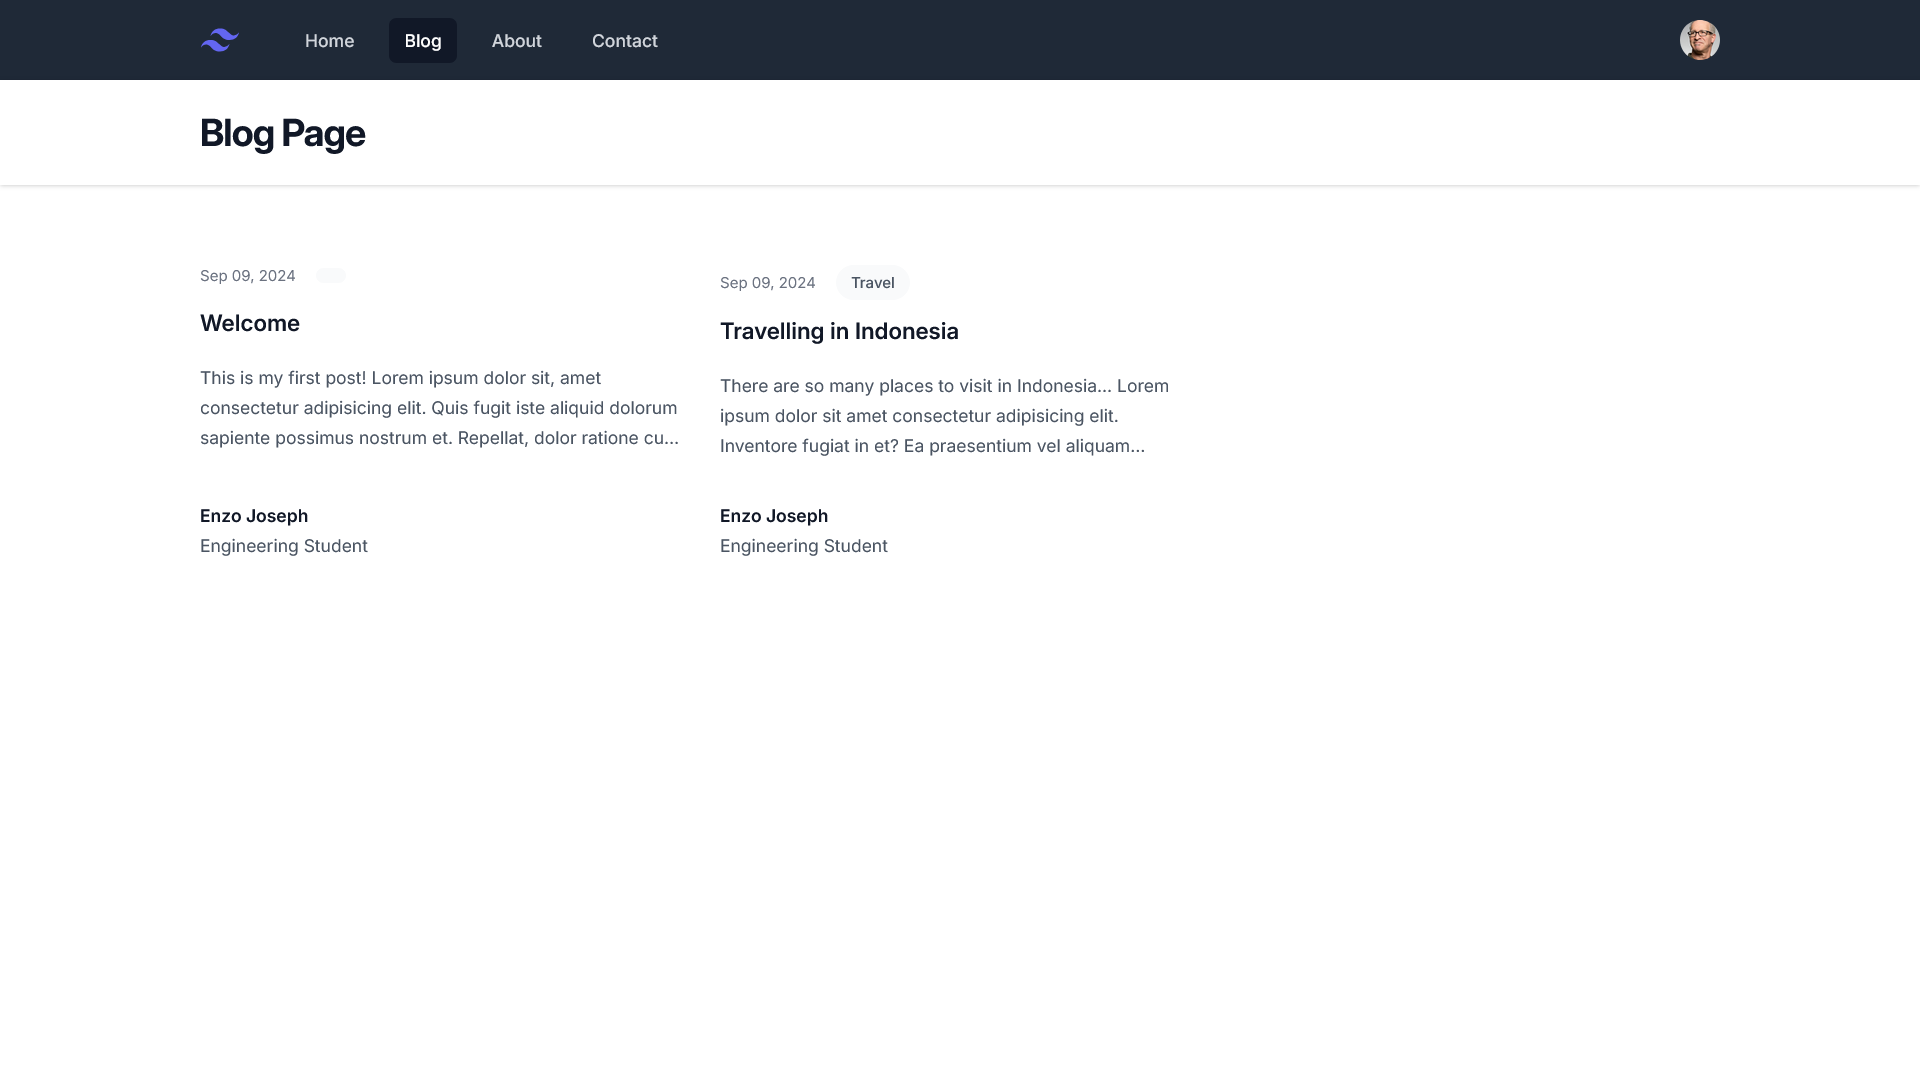
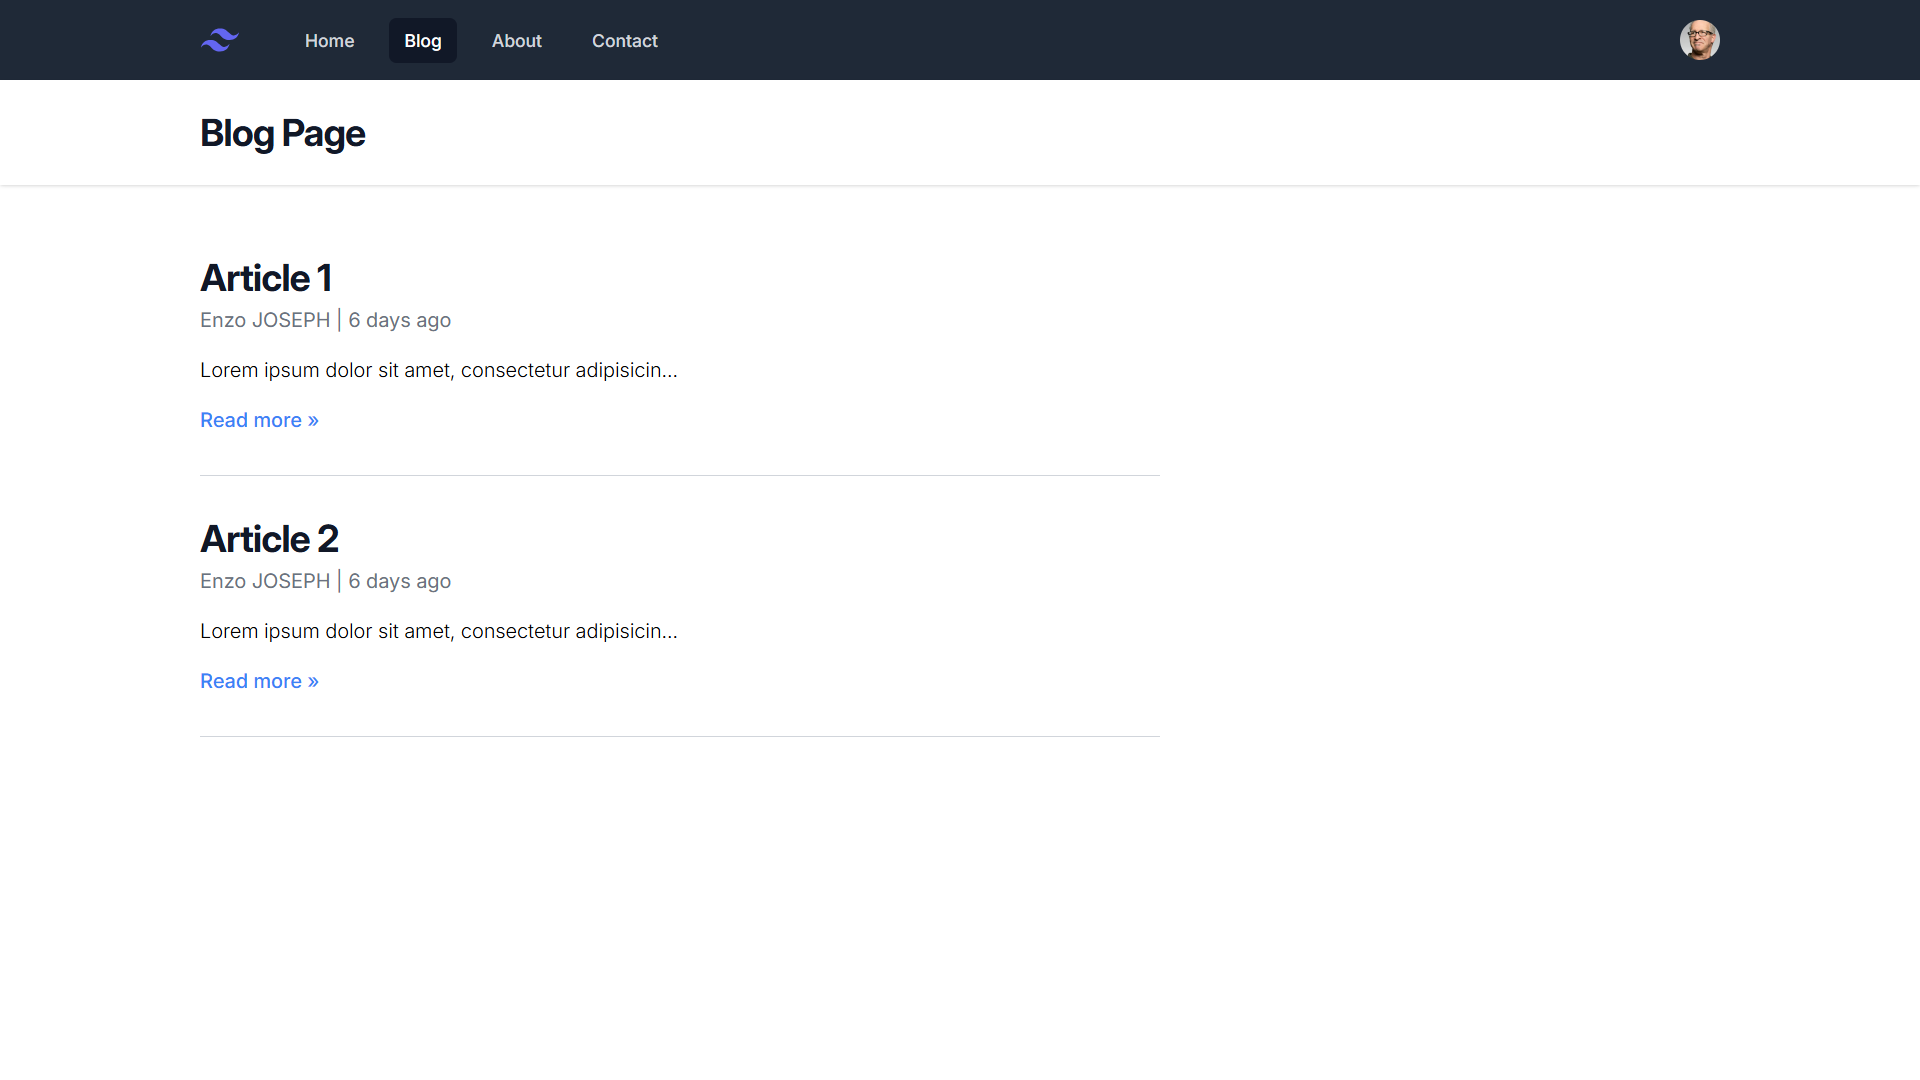
Added a 'Post' model along with the 'posts" database. Updated the readme.

diff --git a/app/Policies/PostPolicy.php b/app/Policies/PostPolicy.php
@@ -1,0 +1,66 @@
+<?php
+
+namespace App\Policies;
+
+use App\Models\Post;
+use App\Models\User;
+use Illuminate\Auth\Access\Response;
+
+class PostPolicy
+{
+    /**
+     * Determine whether the user can view any models.
+     */
+    public function viewAny(User $user): bool
+    {
+        //
+    }
+
+    /**
+     * Determine whether the user can view the model.
+     */
+    public function view(User $user, Post $post): bool
+    {
+        //
+    }
+
+    /**
+     * Determine whether the user can create models.
+     */
+    public function create(User $user): bool
+    {
+        //
+    }
+
+    /**
+     * Determine whether the user can update the model.
+     */
+    public function update(User $user, Post $post): bool
+    {
+        //
+    }
+
+    /**
+     * Determine whether the user can delete the model.
+     */
+    public function delete(User $user, Post $post): bool
+    {
+        //
+    }
+
+    /**
+     * Determine whether the user can restore the model.
+     */
+    public function restore(User $user, Post $post): bool
+    {
+        //
+    }
+
+    /**
+     * Determine whether the user can permanently delete the model.
+     */
+    public function forceDelete(User $user, Post $post): bool
+    {
+        //
+    }
+}

diff --git a/resources/views/blog.blade.php b/resources/views/blog.blade.php
@@ -1,4 +1,16 @@
 <x-layout>
-    <x-slot:title>{{ $title }}</x-slot>
-    <x-blogpostcontainer></x-blogpostcontainer>
+    <x-slot:title>Blog Page</x-slot>
+
+    @foreach ($posts as $post)
+        <article class="py-8 max-w-screen-md border-b border-gray-300">
+            <a href='/blog/{{$post["id"]}}' class="font-medium text-gray-900 hover:underline">
+                <h2 class="mb-1 text-3xl tracking-tight font-bold text-gray-900">{{$post['title']}}</h2>
+            </a>
+            <div class="text-base text-gray-500">
+                <a href="#">{{ $post['author'] }}</a> | {{ $post->created_at->diffForHumans() }}
+            </div>
+            <p class="my-4 font-light">{{ Str::limit($post['content'], 50) }}</p>
+            <a href='/blog/{{$post["id"]}}' class="font-medium text-blue-500 hover:underline">Read more &raquo;</a>
+        </article>
+    @endforeach
 </x-layout>

diff --git a/routes/web.php b/routes/web.php
@@ -1,6 +1,7 @@
 <?php
 
 use Illuminate\Support\Facades\Route;
+use App\Models\Post;
 
 Route::get('/', function () {
     return view('home', ['title' => 'Home Page']);
@@ -11,8 +12,16 @@ Route::get('/about', function () {
 });
 
 Route::get('/blog', function () {
-    return view('blog', ['title' => 'Blog Page']);
+    // dd([PostController::class, 'index']);
+    return view('blog', ['title' => 'Blog Page', 'posts' => Post::all()]);
 });
+
+Route::get('/blog/{id}', function ($id) {
+    return view('blog-post', ['title' => 'Single Post', 'post' => Post::find($id)]);
+});
+
 Route::get('/contact', function () {
     return view('contact', ['title' => 'Contact Page']);
 });
+
+

diff --git a/resources/views/blog-post.blade.php b/resources/views/blog-post.blade.php
@@ -1,0 +1,14 @@
+<x-layout>
+    <x-slot:title>{{$title}}</x-slot>
+
+    <article class="py-8 max-w-screen-md border-b border-gray-300">
+        <a href='/blog/{{$post["id"]}}' class="font-medium text-gray-900 hover:underline">
+            <h2 class="mb-1 text-3xl tracking-tight font-bold text-gray-900">{{$post['title']}}</h2>
+        </a>
+        <div class="text-base text-gray-500">
+            <a href="#">{{ $post['author'] }}</a> | {{ $post->created_at->diffForHumans() }}
+        </div>
+        <p class="my-4 font-light">{{ $post['content'] }}</p>
+        <a href='/blog' class="font-medium text-blue-500 hover:underline">&laquo; Back</a>
+    </article>
+</x-layout>

diff --git a/database/migrations/2024_09_12_055222_create_posts_table.php b/database/migrations/2024_09_12_055222_create_posts_table.php
@@ -1,0 +1,30 @@
+<?php
+
+use Illuminate\Database\Migrations\Migration;
+use Illuminate\Database\Schema\Blueprint;
+use Illuminate\Support\Facades\Schema;
+
+return new class extends Migration
+{
+    /**
+     * Run the migrations.
+     */
+    public function up(): void
+    {
+        Schema::create('posts', function (Blueprint $table) {
+            $table->id();
+            $table->string('title');
+            $table->text('content');
+            $table->string('author');
+            $table->timestamps();
+        });
+    }
+
+    /**
+     * Reverse the migrations.
+     */
+    public function down(): void
+    {
+        Schema::dropIfExists('posts');
+    }
+};

diff --git a/database/migrations/2024_09_11_074332_create_posts_table.php b/database/migrations/2024_09_11_074332_create_posts_table.php
@@ -1,0 +1,27 @@
+<?php
+
+use Illuminate\Database\Migrations\Migration;
+use Illuminate\Database\Schema\Blueprint;
+use Illuminate\Support\Facades\Schema;
+
+return new class extends Migration
+{
+    /**
+     * Run the migrations.
+     */
+    public function up(): void
+    {
+        Schema::create('posts', function (Blueprint $table) {
+            $table->id();
+            $table->timestamps();
+        });
+    }
+
+    /**
+     * Reverse the migrations.
+     */
+    public function down(): void
+    {
+        Schema::dropIfExists('posts');
+    }
+};

diff --git a/database/factories/PostFactory.php b/database/factories/PostFactory.php
@@ -1,0 +1,23 @@
+<?php
+
+namespace Database\Factories;
+
+use Illuminate\Database\Eloquent\Factories\Factory;
+
+/**
+ * @extends \Illuminate\Database\Eloquent\Factories\Factory<\App\Models\Post>
+ */
+class PostFactory extends Factory
+{
+    /**
+     * Define the model's default state.
+     *
+     * @return array<string, mixed>
+     */
+    public function definition(): array
+    {
+        return [
+            //
+        ];
+    }
+}

diff --git a/database/seeders/PostSeeder.php b/database/seeders/PostSeeder.php
@@ -1,0 +1,17 @@
+<?php
+
+namespace Database\Seeders;
+
+use Illuminate\Database\Console\Seeds\WithoutModelEvents;
+use Illuminate\Database\Seeder;
+
+class PostSeeder extends Seeder
+{
+    /**
+     * Run the database seeds.
+     */
+    public function run(): void
+    {
+        //
+    }
+}

diff --git a/app/Models/Post.php b/app/Models/Post.php
@@ -1,0 +1,13 @@
+<?php
+
+namespace App\Models;
+
+use Illuminate\Database\Eloquent\Factories\HasFactory;
+use Illuminate\Database\Eloquent\Model;
+use Illuminate\Support\Arr;
+
+class Post extends Model
+{
+    protected $fillable = ['title', 'content', 'author'];
+}
+

diff --git a/README.md b/README.md
@@ -8,6 +8,9 @@ The first page is the main page, with nothing special on it.
 <p align="center"><img src="resources/img/Home Page.png" width="800" alt="Laravel Logo"></p>
 The blog contains 2 example articles using components from Tailwind.
 <p align="center"><img src="resources/img/Blog Page.png" width="800" alt="Laravel Logo"></p>
+Each post is clickable to view it in more details in another page.
+<p align="center"><img src="resources/img/Post Page.png" width="800" alt="Laravel Logo"></p>
+
 The about page contains a small description of me.
 <p align="center"><img src="resources/img/About Page.png" width="800" alt="Laravel Logo"></p>
 Finally, the contact page has ways to contact me, via email or on social media with clickable logos
